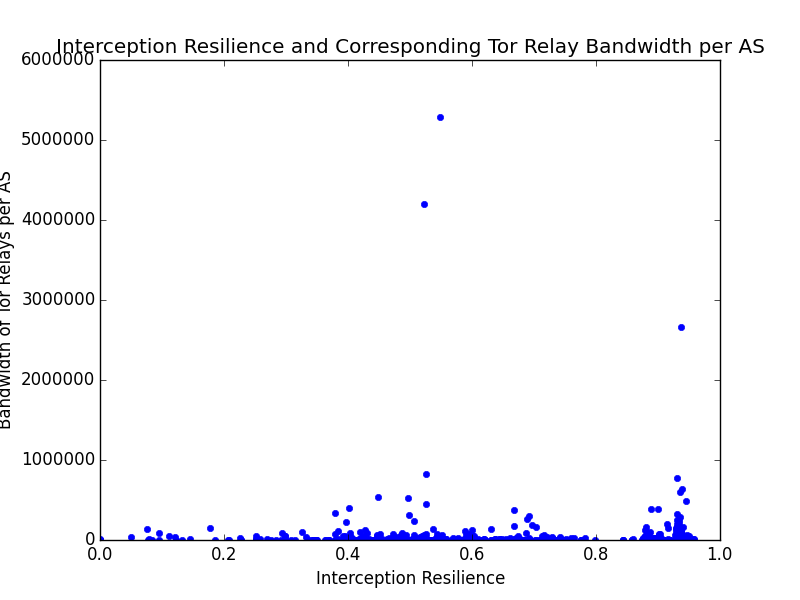
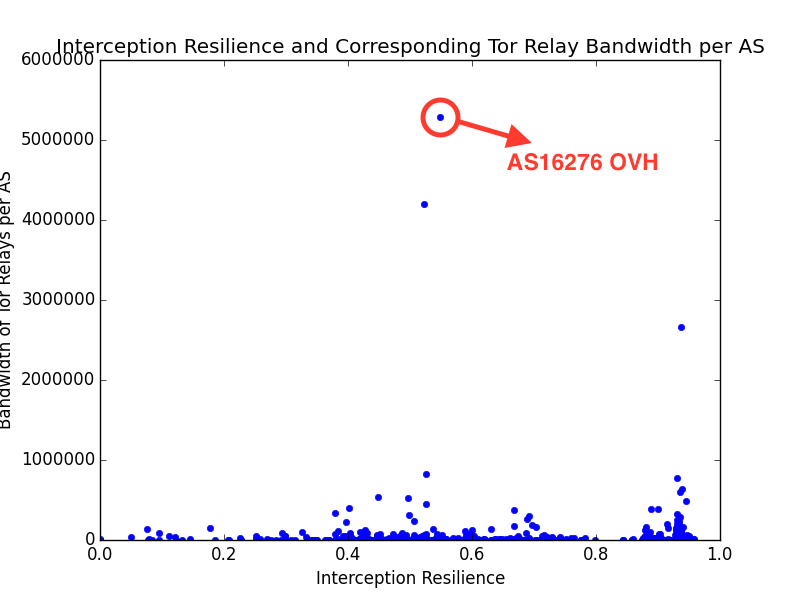
section 3 edits

Changed region(s): [[0.5312, 0.18, 0.8125, 0.3], [0.5312, 0.15, 0.5625, 0.18], [0.5, 0.18, 0.5312, 0.21]]

diff --git a/usenix/measure.tex b/usenix/measure.tex
@@ -76,6 +76,7 @@ Further more, the AS paths should also have the \emph{valley free} property ~\ci
 %  We also plan to specifically look at the resiliency of guard relays (as a group) as well as exit relays (as a group). 
 
 \subsection{Resilience to prefix interception attacks}
+\label{interception_methodology}
 Next, we measure the resilience of Tor-related ASes to prefix interception attacks. Launching prefix interception attacks requires one further step than prefix hijack attacks - the false origin AS needs to forward the hijacked traffic back to the true origin AS. Ballani \emph{et al.} \cite{ballani2007study} pointed that, in order to be able to do this, the false origin AS needs to satisfy a \emph{safety condition}: none of the ASes along the existing route from false origin AS to true origin AS should choose the invalid route advertised by the false origin AS, and thus the false origin AS can still use its existing route to forward the hijacked traffic back to the true origin. Thus, when making the invalid route announcement, there are two cases to consider: (1) if the false origin AS's existing route to the true origin AS is through a peer or customer route, then it's safe to make the false announcement to all its neighbors without affecting its existing route to the true origin; (2) if the false origin AS's existing route to the true origin AS is through a provider route, then it can only make the false announcement to its peers and customers, but not providers. 
 
 Based on the above property, we modify the Algorithm ~\ref{algo:calcres} to the following Algorithm~\ref{algo:calcintercept} to evaluate resilience to interception attacks. 
@@ -145,7 +146,7 @@ Figure~\ref{fig:hijack_resilience_histogram} shows the results. We can see that 
 \label{fig:hijack_as}
 \end{figure}
 
-We can see that in both figures ~\ref{fig:res_relays} and ~\ref{fig:hijack_bw}, there is one significant outlier - AS16276, OVH - which contains 339 relays and carries \yixin{add here} Tor bandwidths. Unfortunately, this AS also has a relatively low resilience against hijack attacks.  This motivates our proactive and reactive countermeasures against hijack attacks. \yixin{this part needs to be polished after getting exact data of relays, bandwidth and resilience}.\\
+We can see that in both figures ~\ref{fig:res_relays} and ~\ref{fig:hijack_bw}, there is one significant outlier, AS16276 (OVH), which contains 339 relays and carries a total of 5,282,512 KB/s Tor bandwidths. It only has relatively low hijack resilience of 0.408, indicating that in a hijack event, the probability of a Tor client (who uses relays in the AS) being deceived is close to 60\%. Another AS with high bandwidth yet low resilience is AS12876 (ONLINE S.A.S.) which contains 242 relays. It has a even lower resilience value of 0.35. \\
 
 %We then looked at which ASes had the most relays, and what their corresponding resilience is; ideally, ASes with more relays are also more resilient to hijack attacks.  Figure~\ref{fig:res_relays} shows the resilience value for an AS and the AS's corresponding number of relays.  
 
@@ -163,47 +164,51 @@ We can see that in both figures ~\ref{fig:res_relays} and ~\ref{fig:hijack_bw}, 
 %\label{fig:hijack_bw}
 %\end{figure}
 
-{\bf Resilience against Tier 1 ASes.} Tier 1 ASes play an important role in Internet routing and carry large amount of network traffic. Thus, we measured the resilience of Tor-related ASes specifically to Tier 1 ASes as hijacking ASes (instead of \emph{all} ASes). Figure~\ref{fig:resilience_histogram_tier1} shows the result. Surprisingly, 
+%{\bf Resilience against Tier 1 ASes.} Tier 1 ASes play an important role in Internet routing and carry large amount of network traffic. Thus, we measured the resilience of Tor-related ASes specifically to Tier 1 ASes as hijacking ASes (instead of \emph{all} ASes). Figure~\ref{fig:resilience_histogram_tier1} shows the result. Surprisingly, 
+%
+%\begin{figure}[ht!]
+%\centering
+%\includegraphics[width=.4\textwidth]{hijack_tier1}
+%\caption{Histogram of hijack resiliences to Tier 1 ASes for all Tor-related ASes.}
+%\label{fig:resilience_histogram_tier1}
+%\end{figure}
 
-\begin{figure}[ht!]
-\centering
-\includegraphics[width=.4\textwidth]{hijack_tier1}
-\caption{Histogram of hijack resiliences to Tier 1 ASes for all Tor-related ASes.}
-\label{fig:resilience_histogram_tier1}
-\end{figure}
-
-{\bf Resilience over the years.} We also conducted our measurements on past data to analyze the hijack resiliency trend on the Tor network.  Figure~\ref{fig:resilience_trend} shows the average AS resiliency to hijack attacks each year.  We can see that the average resiliency has increased since 2008, but still remains below .50.  
+{\bf Resilience over the years.} We also conducted our measurements on past data to analyze the hijack resilience trend on the Tor network.  Figure~\ref{fig:resilience_trend} shows the average AS resilience of Tor-related ASes to hijack attacks using January data from each year.  We can see that the average resilience has increased since 2008.  Note that the graph is drawn on a [0.43,0.49] scale, so the fluctuation in average resilience is actually small. There was a slight decrease between 2013/01 to 2015/01, and then increased back again in 2016/01. After further investigation, we found that there was a steep increase in number of Tor-related ASes from 2013 to 2015 - about 200 more new ASes hosting Tor relays each year (18.8\% ~ 21.6\% increase), while the total number of ASes on the internet only increased marginally (0.26\% ~ 6.4\% increase). Thus, the corresponding decrease in average resilience might be due to many more stub ASes (potentially with low resilience values) started running Tor relays in those two years, which brought down the overall average. On the contrary, from 2015/01 to 2016/01, we saw an increase of $>6,600$ ASes in the internet (14.4\% increase), while the number of Tor-related ASes remained almost the same. A large portion of the new emerging ASes might be stub ASes with low hijacking influences, potentialy resulting in the increase of total resilience values of the existing Tor-related ASes. 
 
 \begin{figure}[ht!]
 \centering
 \includegraphics[width=.4\textwidth]{hijack_resilience_trend}
-\caption{Average Tor AS resilience each year from 2008-2016.}
+\caption{Average hijack resilience of Tor-related ASes each year from 2008 to 2016.}
 \label{fig:resilience_trend}
 \end{figure}
 
 \subsection{Interception Resilience Results}
 
-We measured the resilience to interception attacks for each Tor-related AS.  The distribution of interception resilience values is shown in Figure~\ref{fig:interception_histogram}, and we can see that many Tor-related ASes have a much higher resiliency to interception attacks that could be carried out by Tier 1 ASes.  
+Tier-1 ASes play an important role in Internet routing. They sit at the top level of the internet hierarchy and carry large amount of network traffic. Recall from the discussion in Section ~\ref{interception_methodology} that in order to successfully intercept traffic of a true origin AS, the false origin AS needs to satisfy a \emph{safe condition} - it cannot announce the invalid route to its providers when its existing route to true origin AS is through a provider route. This condition puts tier-1 ASes at a powerful position - tier-1 ASes do not have any providers and thus can always announce the invalid route to all its neighbors (peers/customers), which will be further propagated down to other ASes in the internet hierarchy. On the contrary, ASes which are towards the bottom of the internet hierarchy would not have much interception power in nature. They have limited number of peers/customers, and most of their outgoing routes are through providers. Therefore, due to the nature of the difference in interception power, we only focus on measuring interception resilience to tier-1 ASes as the attacking AS here instead of \emph{all} ASes as the attacking AS. 
 
-[More analysis here on interception plots]
+We picked 17 ASes as tier-1 ASes in our evaluation \footnote{AS174, AS209, AS286, AS701, AS1239, AS1299, AS2828, AS2914, AS3257, AS3320, AS3356, AS5511, AS6453, AS6461, AS6762, AS7018, AS12956}. We used Tor consensus data and CAID internet topology data both in January 2016. Figure ~\ref{fig:interception_histogram} shows the distribution of interception resilience values of all Tor-related ASes. We can see that many Tor-related ASes have high resilience to interception attacks that could be carried out by tier-1 ASes. The intuition behind this is that, even though tier-1 ASes are at a potentially intercepting position, they also have longer paths from ASes which are close to the bottom of the hierarchy, which may prefer closer ASes with shorter paths instead of taking the longer paths to reach tier-1 ASes. 
 
-\begin{figure}
+\begin{figure}[ht!]
 \centering
 \includegraphics[width=.4\textwidth]{interception_resiliency}
-\caption{A histogram of resilience values for all ASes that contain a Tor relay in 2015.}
+\caption{Histogram of interception resiliences to Tier-1 ASes for all Tor-related ASes.}
 \label{fig:interception_histogram}
 \end{figure}
 
-\begin{figure}
+Figure ~\ref{fig:interception_bw} shows the plot of interception resilience to tier-1 ASes versus bandwidth of a Tor-related AS. Interestingly, the two ASes with highest Tor bandwidth - AS16276 (OVH) and AS12876 (ONLINE S.A.S.) - do not have high interception resilience. Their resilience values fall between 0.45 and 0.5, indicating that in an interception attack event by a tier-1 AS, the probability of a Tor client (who uses relays in these two ASes) being deceived is $> 50\%$. Note that this result is consistent with the hijack resilience result shown in Figure ~\ref{fig:hijack_bw}, with these same two ASes of high bandwidth yet low resilience values. 
+
+\begin{figure}[ht!]
 \centering
 \includegraphics[width=.4\textwidth]{interception_bandwidth}
-\caption{Bandwidth of all Tor relays in an AS, and the corresponding AS interception resiliency.}
+\caption{Interception Resilience to Tier-1 ASes v.s. Tor Bandwidth per AS}
 \label{fig:interception_bw}
 \end{figure}
 
 \subsection{Case Study: Indosat 2014}
 In 2014, Indosat, one of Indonesia's largest telecommunications networks, announced 417,038 new prefixes, but it usually only announces about 300 prefixes~\cite{indosat2014}.  Previous work found that this compromised 44 Tor relays, 38 of which were guard relays and 17 of which were exit relays (11 hijacked relays were both guards and exits) ~\cite{sun2015raptor}.  We calculated the hijack resilience of the hijacked ASes; the results are shown in Figure~\ref{fig:case_study}.  We can see that the AS hijack resiliency ranges from 0.0 to .76, with most ASes falling in the middle of the spectrum. 
 %This means that even ASes with relatively high resilience values (.72 and .76) have the potential to be hijacked.  
+
+\yixin{Should we omit this subsection completely? The intention was to validate our metric by doing a case study, but it does not seem to serve the purpose without going into more details. Plus, a better way to validate the metric might be to perform a hijack attack ourselves using transit portal and evaluate the affected ASes v.s. their resiliences. However, we do not have the TP ready and thus cannot perform this experiment now.}
 
 \begin{figure}
 \centering
